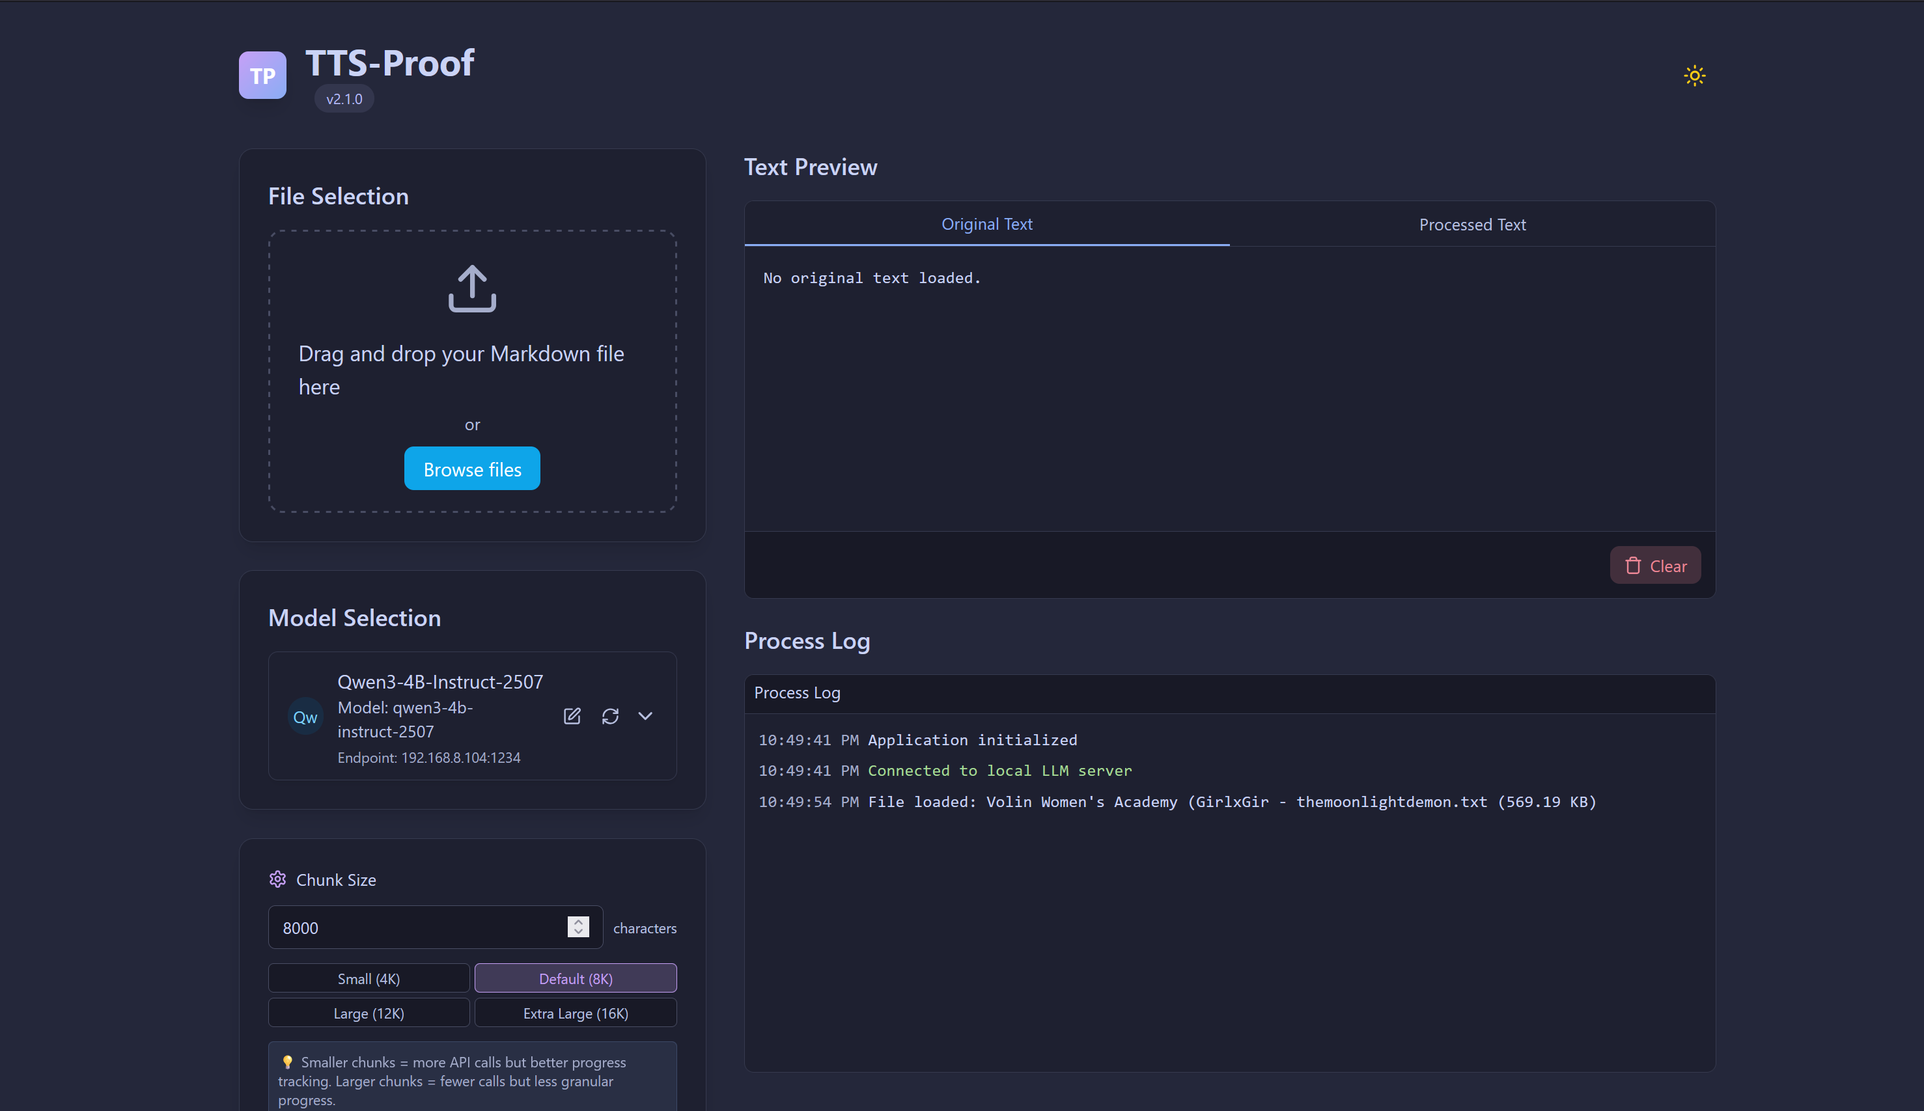
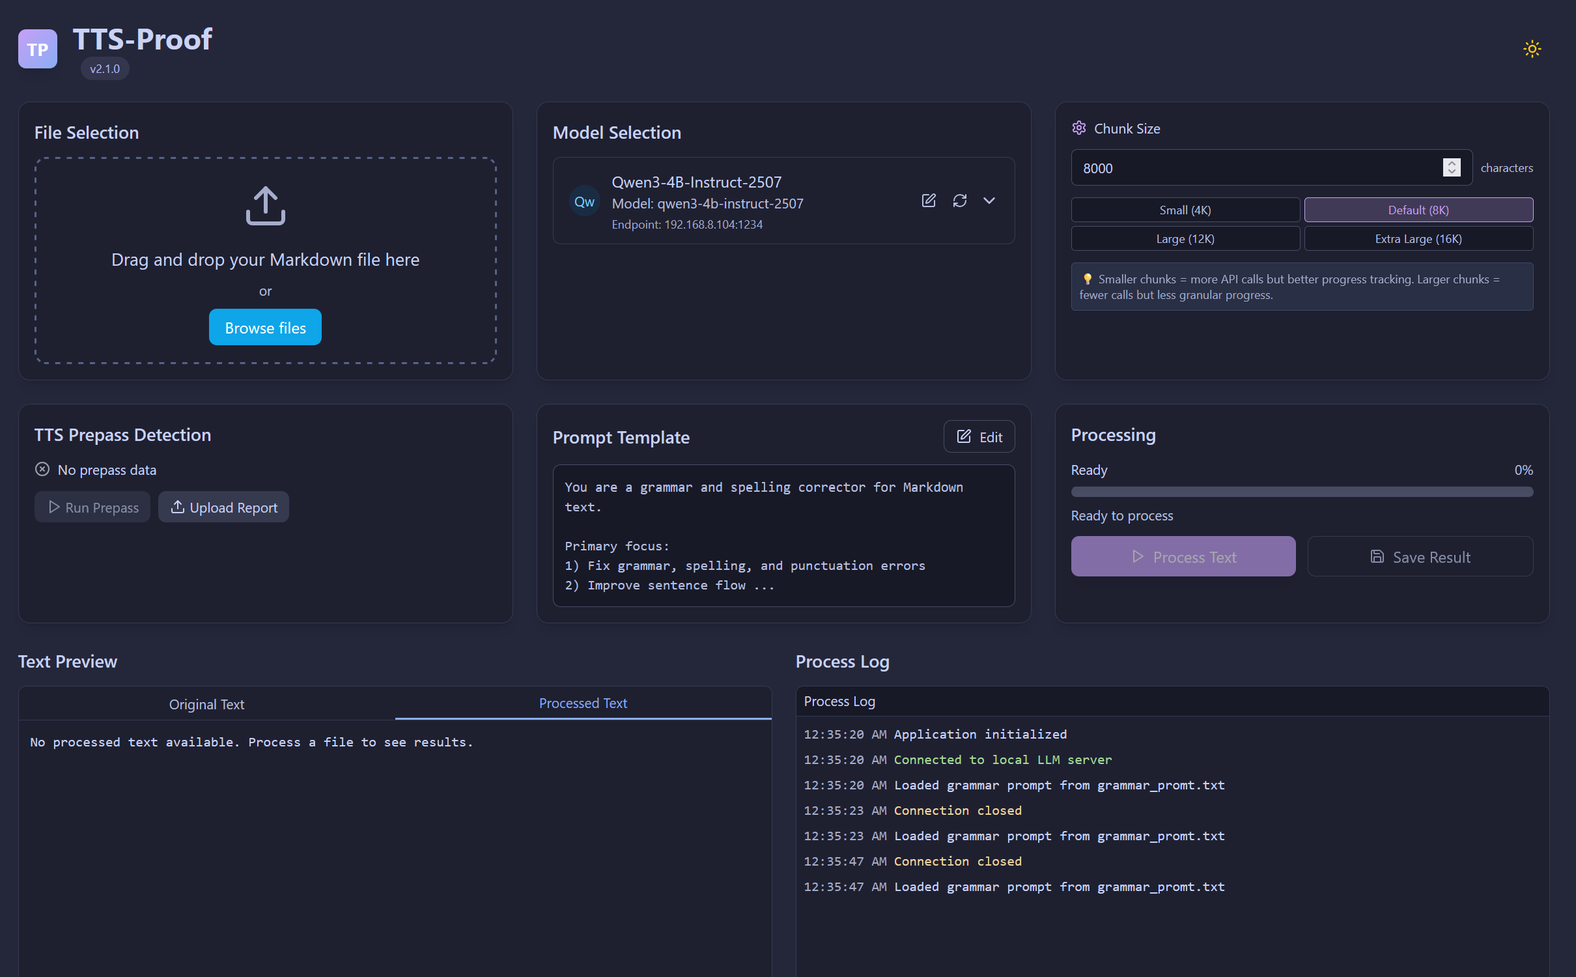
readme

diff --git a/frontend/src/App.tsx b/frontend/src/App.tsx
@@ -272,9 +272,9 @@ const AppContent = () => {
     addLog('Processed text saved to file', 'success');
   };
   return <div className={`min-h-screen w-full transition-colors duration-300 ${isDarkMode ? 'dark bg-catppuccin-base text-catppuccin-text' : 'bg-light-base text-light-text'}`}>
-      <div className="container mx-auto px-4 py-8 max-w-7xl">
+      <div className="container mx-auto px-4 py-6 max-w-[1600px]">
         {/* Header */}
-        <header className="flex justify-between items-center mb-8">
+        <header className="flex justify-between items-center mb-6">
           <div className="flex items-center">
             <div className="w-10 h-10 bg-gradient-to-br from-catppuccin-mauve to-catppuccin-blue rounded-lg flex items-center justify-center shadow-lg mr-4">
               <span className="text-white font-bold text-lg">TP</span>
@@ -291,120 +291,124 @@ const AppContent = () => {
           <ThemeToggle />
         </header>
 
-        <div className="grid grid-cols-1 lg:grid-cols-3 gap-8">
-          {/* Left column - Controls */}
-          <div className="lg:col-span-1 space-y-6">
-            <section className="bg-light-mantle dark:bg-catppuccin-mantle rounded-xl p-6 shadow-lg border border-light-surface0 dark:border-catppuccin-surface0">
-              <h2 className="text-xl font-semibold mb-4 text-light-text dark:text-catppuccin-text">
-                File Selection
-              </h2>
-              <FileSelector onFileSelect={handleFileSelect} />
-            </section>
-
-            <section className="bg-light-mantle dark:bg-catppuccin-mantle rounded-xl p-6 shadow-lg border border-light-surface0 dark:border-catppuccin-surface0">
-              <h2 className="text-xl font-semibold mb-4 text-light-text dark:text-catppuccin-text">
-                Model Selection
-              </h2>
-              <ModelPicker 
-                onModelSelect={setSelectedModelId} 
-                onEndpointChange={setCurrentEndpoint}
-                currentEndpoint={currentEndpoint}
-              />
-            </section>
-
+        {/* Main control grid - 2 rows x 3 columns */}
+        <div className="grid grid-cols-1 lg:grid-cols-3 gap-6 mb-6">
+          {/* Row 1: File Selection */}
+          <section className="bg-light-mantle dark:bg-catppuccin-mantle rounded-xl p-4 shadow-lg border border-light-surface0 dark:border-catppuccin-surface0">
+            <h2 className="text-lg font-semibold mb-3 text-light-text dark:text-catppuccin-text">
+              File Selection
+            </h2>
+            <FileSelector onFileSelect={handleFileSelect} />
             {/* File Analysis - Show when file is selected */}
             {file && originalText && (
-              <section className="bg-light-mantle dark:bg-catppuccin-mantle rounded-xl p-6 shadow-lg border border-light-surface0 dark:border-catppuccin-surface0">
+              <div className="mt-4">
                 <FileAnalysis 
                   totalCharacters={originalText.length}
                   estimatedChunks={calculateEstimatedChunks(originalText, chunkSize)}
                   fileName={file.name}
                 />
-              </section>
+              </div>
             )}
+          </section>
 
-            {/* Chunk Size Control */}
-            <section className="bg-light-mantle dark:bg-catppuccin-mantle rounded-xl p-6 shadow-lg border border-light-surface0 dark:border-catppuccin-surface0">
-              <ChunkSizeControl 
-                chunkSize={chunkSize}
-                onChunkSizeChange={setChunkSize}
-                disabled={isProcessing}
-              />
-            </section>
+          {/* Row 1: Model Selection */}
+          <section className="bg-light-mantle dark:bg-catppuccin-mantle rounded-xl p-4 shadow-lg border border-light-surface0 dark:border-catppuccin-surface0">
+            <h2 className="text-lg font-semibold mb-3 text-light-text dark:text-catppuccin-text">
+              Model Selection
+            </h2>
+            <ModelPicker 
+              onModelSelect={setSelectedModelId} 
+              onEndpointChange={setCurrentEndpoint}
+              currentEndpoint={currentEndpoint}
+            />
+          </section>
 
-            {/* Prepass Control */}
-            <section className="bg-light-mantle dark:bg-catppuccin-mantle rounded-xl p-6 shadow-lg border border-light-surface0 dark:border-catppuccin-surface0">
-              <h2 className="text-xl font-semibold mb-4 text-light-text dark:text-catppuccin-text">
-                TTS Prepass Detection
+          {/* Row 1: Chunk Size Control */}
+          <section className="bg-light-mantle dark:bg-catppuccin-mantle rounded-xl p-4 shadow-lg border border-light-surface0 dark:border-catppuccin-surface0">
+            <ChunkSizeControl 
+              chunkSize={chunkSize}
+              onChunkSizeChange={setChunkSize}
+              disabled={isProcessing}
+            />
+          </section>
+
+          {/* Row 2: Prepass Control */}
+          <section className="bg-light-mantle dark:bg-catppuccin-mantle rounded-xl p-4 shadow-lg border border-light-surface0 dark:border-catppuccin-surface0">
+            <h2 className="text-lg font-semibold mb-3 text-light-text dark:text-catppuccin-text">
+              TTS Prepass Detection
+            </h2>
+            <PrepassControl
+              onPrepassComplete={(report) => {
+                setPrepassReport(report);
+                setUsePrepass(true); // Auto-select the checkbox when prepass completes
+              }}
+              onPrepassClear={() => setPrepassReport(null)}
+              prepassReport={prepassReport}
+              usePrepass={usePrepass}
+              onUsePrepassChange={setUsePrepass}
+              isRunningPrepass={isRunningPrepass}
+              onRunningPrepassChange={setIsRunningPrepass}
+              content={originalText}
+              modelId={selectedModelId}
+              endpoint={currentEndpoint}
+              chunkSize={chunkSize}
+              onLog={addLog}
+            />
+          </section>
+
+          {/* Row 2: Prompt Template */}
+          <section className="bg-light-mantle dark:bg-catppuccin-mantle rounded-xl p-4 shadow-lg border border-light-surface0 dark:border-catppuccin-surface0">
+            <div className="flex justify-between items-center mb-3">
+              <h2 className="text-lg font-semibold text-light-text dark:text-catppuccin-text">
+                Prompt Template
               </h2>
-              <PrepassControl
-                onPrepassComplete={setPrepassReport}
-                onPrepassClear={() => setPrepassReport(null)}
-                prepassReport={prepassReport}
-                usePrepass={usePrepass}
-                onUsePrepassChange={setUsePrepass}
-                isRunningPrepass={isRunningPrepass}
-                onRunningPrepassChange={setIsRunningPrepass}
-                content={originalText}
-                modelId={selectedModelId}
-                endpoint={currentEndpoint}
-                chunkSize={chunkSize}
-                onLog={addLog}
-              />
-            </section>
+              <Button variant="outline" size="sm" icon={<EditIcon className="w-4 h-4" />} onClick={() => setIsPromptEditorOpen(true)}>
+                Edit
+              </Button>
+            </div>
+            <div className="bg-light-crust dark:bg-catppuccin-crust p-3 rounded-lg border border-light-surface1 dark:border-catppuccin-surface1">
+              <pre className="text-sm text-light-subtext1 dark:text-catppuccin-subtext1 whitespace-pre-wrap">
+                {prompt.length > 150 ? `${prompt.substring(0, 150)}...` : prompt}
+              </pre>
+            </div>
+          </section>
 
-            <section className="bg-light-mantle dark:bg-catppuccin-mantle rounded-xl p-6 shadow-lg border border-light-surface0 dark:border-catppuccin-surface0">
-              <div className="flex justify-between items-center mb-4">
-                <h2 className="text-xl font-semibold text-light-text dark:text-catppuccin-text">
-                  Prompt Template
-                </h2>
-                <Button variant="outline" size="sm" icon={<EditIcon className="w-4 h-4" />} onClick={() => setIsPromptEditorOpen(true)}>
-                  Edit
-                </Button>
-              </div>
-              <div className="bg-light-crust dark:bg-catppuccin-crust p-3 rounded-lg border border-light-surface1 dark:border-catppuccin-surface1">
-                <pre className="text-sm text-light-subtext1 dark:text-catppuccin-subtext1 whitespace-pre-wrap">
-                  {prompt.length > 150 ? `${prompt.substring(0, 150)}...` : prompt}
-                </pre>
-              </div>
-            </section>
+          {/* Row 2: Processing */}
+          <section className="bg-light-mantle dark:bg-catppuccin-mantle rounded-xl p-4 shadow-lg border border-light-surface0 dark:border-catppuccin-surface0">
+            <h2 className="text-lg font-semibold mb-3 text-light-text dark:text-catppuccin-text">
+              Processing
+            </h2>
+            <ProgressBar progress={progress} status={status} isProcessing={isProcessing} />
+            <div className="mt-3 flex space-x-3">
+              <Button onClick={handleProcess} disabled={!file || isProcessing} isLoading={isProcessing} icon={<PlayIcon className="w-4 h-4" />} className="flex-1">
+                Process Text
+              </Button>
+              <Button variant="outline" onClick={handleSaveProcessedText} disabled={!processedText} icon={<SaveIcon className="w-4 h-4" />} className="flex-1">
+                Save Result
+              </Button>
+            </div>
+          </section>
+        </div>
 
-            <section className="bg-light-mantle dark:bg-catppuccin-mantle rounded-xl p-6 shadow-lg border border-light-surface0 dark:border-catppuccin-surface0">
-              <h2 className="text-xl font-semibold mb-4 text-light-text dark:text-catppuccin-text">
-                Processing
-              </h2>
-              <ProgressBar progress={progress} status={status} isProcessing={isProcessing} />
-              <div className="mt-4 flex space-x-3">
-                <Button onClick={handleProcess} disabled={!file || isProcessing} isLoading={isProcessing} icon={<PlayIcon className="w-4 h-4" />} className="flex-1">
-                  Process Text
-                </Button>
-                <Button variant="outline" onClick={handleSaveProcessedText} disabled={!processedText} icon={<SaveIcon className="w-4 h-4" />} className="flex-1">
-                  Save Result
-                </Button>
-              </div>
-            </section>
-          </div>
+        {/* Bottom section - Preview and Logs */}
+        <div className="grid grid-cols-1 lg:grid-cols-2 gap-6 h-[calc(100vh-28rem)]">
+          <section>
+            <h2 className="text-lg font-semibold mb-3 text-light-text dark:text-catppuccin-text">
+              Text Preview
+            </h2>
+            <div className="h-[calc(100%-2rem)]">
+              <PreviewWindow originalText={originalText} processedText={processedText} onDelete={handleClearPreview} />
+            </div>
+          </section>
 
-          {/* Right column - Preview and Logs */}
-          <div className="lg:col-span-2 grid grid-rows-2 gap-6 h-[calc(100vh-10rem)]">
-            <section className="row-span-1">
-              <h2 className="text-xl font-semibold mb-4 text-light-text dark:text-catppuccin-text">
-                Text Preview
-              </h2>
-              <div className="h-[calc(100%-2.5rem)]">
-                <PreviewWindow originalText={originalText} processedText={processedText} onDelete={handleClearPreview} />
-              </div>
-            </section>
-
-            <section className="row-span-1">
-              <h2 className="text-xl font-semibold mb-4 text-light-text dark:text-catppuccin-text">
-                Process Log
-              </h2>
-              <div className="h-[calc(100%-2.5rem)]">
-                <LogArea logs={logs} />
-              </div>
-            </section>
-          </div>
+          <section>
+            <h2 className="text-lg font-semibold mb-3 text-light-text dark:text-catppuccin-text">
+              Process Log
+            </h2>
+            <div className="h-[calc(100%-2rem)]">
+              <LogArea logs={logs} />
+            </div>
+          </section>
         </div>
       </div>
 

diff --git a/frontend/src/components/PreviewWindow.tsx b/frontend/src/components/PreviewWindow.tsx
@@ -13,14 +13,14 @@ export const PreviewWindow: React.FC<PreviewWindowProps> = ({
   const [activeTab, setActiveTab] = useState<'original' | 'processed'>('processed');
   return <div className="w-full h-full bg-light-mantle dark:bg-catppuccin-mantle border border-light-surface0 dark:border-catppuccin-surface0 rounded-lg overflow-hidden flex flex-col">
       <div className="flex border-b border-light-surface0 dark:border-catppuccin-surface0">
-        <button onClick={() => setActiveTab('original')} className={`px-4 py-2 text-sm font-medium flex-1 ${activeTab === 'original' ? 'bg-light-mantle dark:bg-catppuccin-mantle text-primary-600 dark:text-catppuccin-blue border-b-2 border-primary-500 dark:border-catppuccin-blue' : 'text-light-subtext1 dark:text-catppuccin-subtext1 hover:text-light-text dark:hover:text-catppuccin-text hover:bg-light-surface0 dark:hover:bg-catppuccin-surface0'}`}>
+        <button onClick={() => setActiveTab('original')} className={`px-3 py-1.5 text-sm font-medium flex-1 ${activeTab === 'original' ? 'bg-light-mantle dark:bg-catppuccin-mantle text-primary-600 dark:text-catppuccin-blue border-b-2 border-primary-500 dark:border-catppuccin-blue' : 'text-light-subtext1 dark:text-catppuccin-subtext1 hover:text-light-text dark:hover:text-catppuccin-text hover:bg-light-surface0 dark:hover:bg-catppuccin-surface0'}`}>
           Original Text
         </button>
-        <button onClick={() => setActiveTab('processed')} className={`px-4 py-2 text-sm font-medium flex-1 ${activeTab === 'processed' ? 'bg-light-mantle dark:bg-catppuccin-mantle text-primary-600 dark:text-catppuccin-blue border-b-2 border-primary-500 dark:border-catppuccin-blue' : 'text-light-subtext1 dark:text-catppuccin-subtext1 hover:text-light-text dark:hover:text-catppuccin-text hover:bg-light-surface0 dark:hover:bg-catppuccin-surface0'}`}>
+        <button onClick={() => setActiveTab('processed')} className={`px-3 py-1.5 text-sm font-medium flex-1 ${activeTab === 'processed' ? 'bg-light-mantle dark:bg-catppuccin-mantle text-primary-600 dark:text-catppuccin-blue border-b-2 border-primary-500 dark:border-catppuccin-blue' : 'text-light-subtext1 dark:text-catppuccin-subtext1 hover:text-light-text dark:hover:text-catppuccin-text hover:bg-light-surface0 dark:hover:bg-catppuccin-surface0'}`}>
           Processed Text
         </button>
       </div>
-      <div className="flex-1 overflow-auto p-4">
+      <div className="flex-1 overflow-auto p-3">
         {activeTab === 'original' ? <div className="prose dark:prose-invert max-w-none">
             <div className="whitespace-pre-wrap break-all overflow-hidden text-sm text-light-text dark:text-catppuccin-text font-mono">
               {originalText || 'No original text loaded.'}
@@ -31,7 +31,7 @@ export const PreviewWindow: React.FC<PreviewWindowProps> = ({
             </div>
           </div>}
       </div>
-      <div className="p-3 border-t border-light-surface0 dark:border-catppuccin-surface0 flex justify-between items-center bg-light-crust dark:bg-catppuccin-crust">
+      <div className="p-2 border-t border-light-surface0 dark:border-catppuccin-surface0 flex justify-between items-center bg-light-crust dark:bg-catppuccin-crust">
         <div className="flex items-center">
           {processedText && <div className="flex items-center text-sm text-catppuccin-green dark:text-catppuccin-green">
               <CheckCircleIcon className="w-4 h-4 mr-1" />

diff --git a/frontend/src/components/LogArea.tsx b/frontend/src/components/LogArea.tsx
@@ -31,12 +31,12 @@ export const LogArea: React.FC<LogAreaProps> = ({
     }
   };
   return <div className="w-full h-full bg-light-mantle dark:bg-catppuccin-mantle border border-light-surface0 dark:border-catppuccin-surface0 rounded-lg overflow-hidden">
-      <div className="p-2 bg-light-crust dark:bg-catppuccin-crust border-b border-light-surface0 dark:border-catppuccin-surface0">
+      <div className="px-2 py-1.5 bg-light-crust dark:bg-catppuccin-crust border-b border-light-surface0 dark:border-catppuccin-surface0">
         <h3 className="text-sm font-medium text-light-text dark:text-catppuccin-text">
           Process Log
         </h3>
       </div>
-      <div className="p-3 h-[calc(100%-32px)] overflow-y-auto font-mono text-sm">
+      <div className="p-2 h-[calc(100%-30px)] overflow-y-auto font-mono text-sm">
         {logs.length === 0 ? <p className="text-light-subtext1 dark:text-catppuccin-subtext1 italic">
             No logs yet. Start processing to see output here.
           </p> : logs.map(log => <div key={log.id} className="mb-1.5">

diff --git a/frontend/src/components/PrepassControl.tsx b/frontend/src/components/PrepassControl.tsx
@@ -195,10 +195,12 @@ export const PrepassControl: React.FC<PrepassControlProps> = ({
             <FileText className="h-3 w-3" />
             <span className="font-medium">Prepass Report Summary</span>
           </div>
-          <div>Source: {prepassReport.source}</div>
-          <div>Problems: {prepassReport.summary?.unique_problem_words?.length || 0}</div>
-          <div>Chunks: {prepassReport.chunks?.length || 0}</div>
-          <div>Created: {new Date(prepassReport.created_at).toLocaleString()}</div>
+          <div className="grid grid-cols-2 gap-x-3 gap-y-0.5">
+            <div>Source: {prepassReport.source.substring(0, 20)}...</div>
+            <div>Problems: {prepassReport.summary?.unique_problem_words?.length || 0}</div>
+            <div>Chunks: {prepassReport.chunks?.length || 0}</div>
+            <div>Created: {new Date(prepassReport.created_at).toLocaleString()}</div>
+          </div>
         </div>
       )}
     </div>

diff --git a/frontend/src/components/ProgressBar.tsx b/frontend/src/components/ProgressBar.tsx
@@ -19,7 +19,7 @@ export const ProgressBar = ({
           {progress}%
         </span>
       </div>
-      <div className="w-full bg-light-surface1 dark:bg-catppuccin-surface1 rounded-full h-3 overflow-hidden shadow-inner">
+      <div className="w-full bg-light-surface1 dark:bg-catppuccin-surface1 rounded-full h-2.5 overflow-hidden shadow-inner">
         <div 
           className={`h-full rounded-full transition-all duration-500 ${
             isProcessing 

diff --git a/readme.md b/readme.md
@@ -2,23 +2,31 @@
 
 ## Overview
 
-A modern web-based application for batch grammar and spelling correction of Markdown files using **local LLM** servers (LM Studio). Features a beautiful React frontend with real-time progress tracking and a robust FastAPI backend that preserves all original processing capabilities.
+A modern web-based application for batch grammar and spelling correction of Markdown files using **local LLM** servers (LM Studio). Features a beautiful React frontend with optimized layout, real-time progress tracking, and a robust FastAPI backend that preserves all original processing capabilities.
+
+## 📸 Interface Preview
+
+![TTS-Proof Web Interface](screenshot-web-interface.png)
+
+*Modern 6-section grid layout optimized for wide displays: organized workflow from file selection to processing, with preview and logs at the bottom.*
 
 ---
 
 ## ✨ Features
 
 ### 🎨 Modern Web Interface
-- **React + TypeScript frontend** with Tailwind CSS styling
+- **Optimized 6-section grid layout** perfect for 4K displays and wide screens
+- **Logical workflow organization** - file setup → model config → processing controls
+- **React + TypeScript frontend** with Tailwind CSS styling  
 - **Real-time progress updates** via WebSocket connections
 - **Dark/Light theme toggle** for comfortable use
-- **Responsive design** that works on any screen size
-- **Drag & drop file uploads** with instant preview
+- **Drag & drop file uploads** with instant preview and file analysis
 
 ### 🔧 Powerful Processing Engine
+- **TTS Prepass Detection** with auto-selection for grammar correction workflow
 - **Flexible LLM server support** with configurable endpoints (LM Studio, KoboldCpp, Oobabooga, TabbyAPI, etc.)
 - **Network-ready** - connect to local or remote servers on your network
-- **Intelligent chunking** (8000 chars) with progress tracking
+- **Intelligent chunking** with configurable sizes and progress tracking
 - **Crash-safe processing** with automatic checkpointing and resume
 - **Markdown structure preservation** (headings, lists, links, code blocks)
 - **URL masking** and code-block protection during processing
@@ -123,20 +131,23 @@ Choose the launcher that works best for your system!
 
 ## 🎯 How to Use
 
-1. **Connect**: The app automatically connects to your LM Studio server
-2. **Upload**: Drag & drop or select your Markdown file
-3. **Configure**: Choose your model and edit prompts if needed
-4. **Process**: Click "Send for Processing" and watch real-time progress
-5. **Download**: Get your corrected text when processing completes
+### Streamlined 6-Section Workflow:
 
----
+**Top Row - Setup:**
+1. **File Selection**: Drag & drop your Markdown file with instant analysis
+2. **Model Selection**: Choose your LLM model and configure endpoints
+3. **Chunk Size**: Set optimal processing chunk size (4K-16K chars)
 
-## 📸 Screenshots
+**Bottom Row - Processing:**
+4. **TTS Prepass**: Run detection for TTS-problematic words (auto-selects for correction)
+5. **Prompt Template**: Customize grammar correction instructions
+6. **Processing**: Execute with real-time progress tracking
 
-### Modern Web Interface
-![TTS-Proof Web Interface](screenshot-web-interface.png)
+**Preview & Logs**: Monitor results and processing details at the bottom
 
-*The new React-based interface showing file upload, real-time processing progress, and side-by-side text preview with dark theme.*
+### Quick Steps:
+1. **Upload** your file → **Select** model → **Process** → **Download** results
+2. Optional: Run **TTS Prepass** for enhanced correction of speech-problematic text
 
 ---
 
@@ -162,10 +173,11 @@ Choose the launcher that works best for your system!
 - File upload handling and temporary file management
 
 ### Frontend Features
-- React 18 with TypeScript
-- Tailwind CSS for modern styling
-- Real-time WebSocket communication
-- Theme switching and responsive design
+- React 18 with TypeScript and optimized 6-section grid layout
+- Tailwind CSS for modern styling with 4K display optimization
+- Real-time WebSocket communication with live progress updates
+- TTS Prepass integration with auto-selection workflow
+- Theme switching and responsive design for all screen sizes
 
 ---
 
